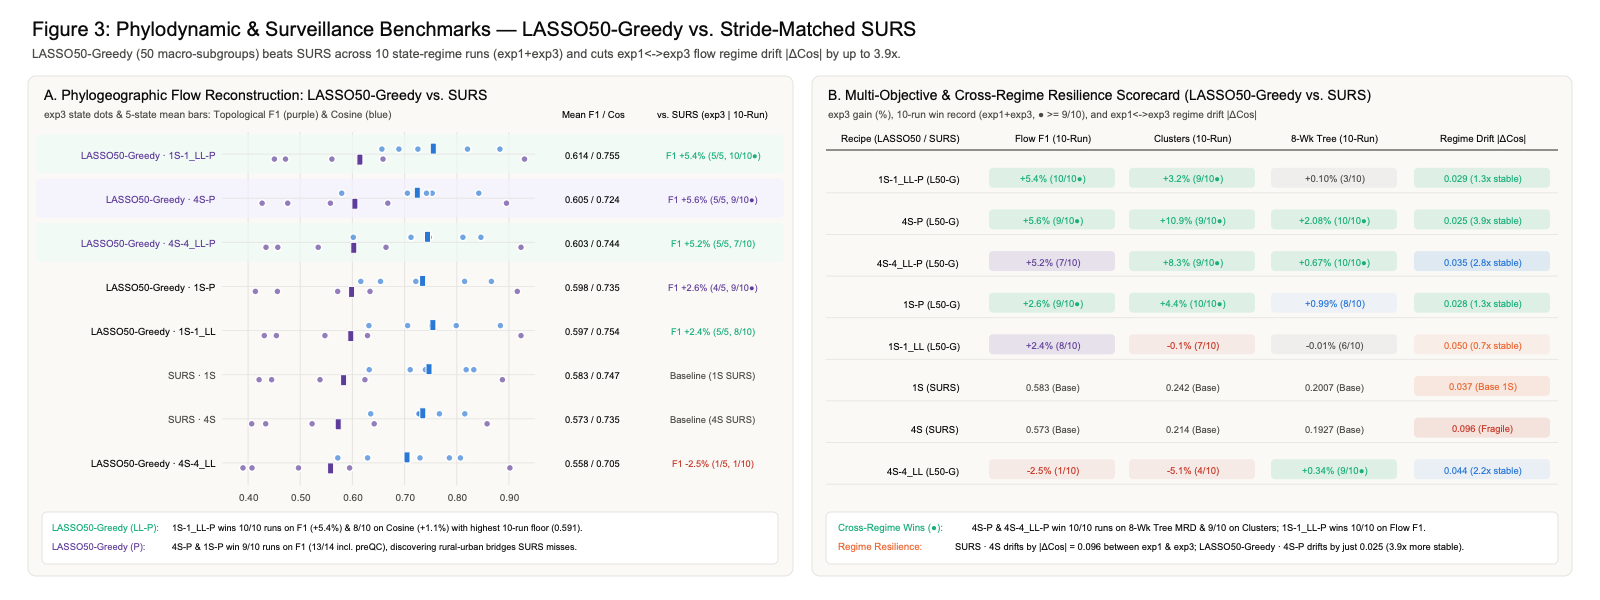
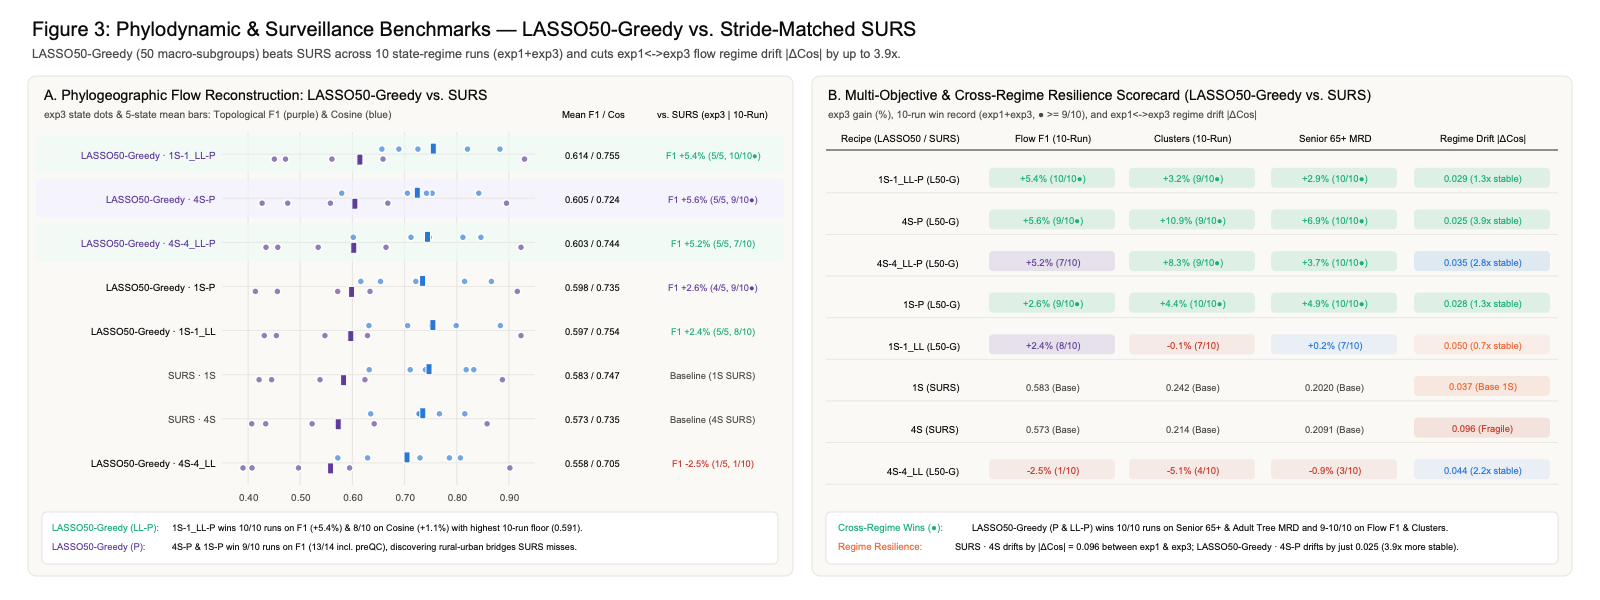
update characterization of performance and metric defintion

diff --git a/docs/characterization/README.md b/docs/characterization/README.md
@@ -1,6 +1,7 @@
 # PhyloGAS `exp3` Multi-State Characterization & Benchmark Report
 
 > **Backing Script:** Generated reproducibly by [`scripts/utils/characterize_exp3.py`](../../scripts/utils/characterize_exp3.py).
+> **Canonical Metrics & Recipes Reference:** **[`docs/benchmarks_and_metrics.md`](../benchmarks_and_metrics.md)** (full mathematical definitions), **[`docs/clock_modes.md`](../clock_modes.md)** (clock decomposition), and **[`docs/abm_contribution.md`](../abm_contribution.md)** (two-way orthogonality identity).
 > **ABM Ground-Truth Deposit (v2 / `exp3`):** [`10.5281/zenodo.23989650`](https://doi.org/10.5281/zenodo.23989650) (Concept DOI: [`10.5281/zenodo.23067669`](https://doi.org/10.5281/zenodo.23067669))
 > **Downstream PhyloGAS Outputs & Benchmarks Deposit (`exp3`):** [`10.5281/zenodo.24013208`](https://doi.org/10.5281/zenodo.24013208)
 
@@ -27,6 +28,12 @@ Generated by `scripts/utils/characterize_exp3.py` (`tickZero = 2020-11-30`, cell
 | WA | 3,100,280 | 5.29 d | `3.88` / `1.90` | `2021-03-15` (tick 105) | 3,548,756 | 4.74 d | `2.12` / `1.59` | `2021-08-05` (24,119/d) | **702 (18.8%)** vs. 89 (2.4%) | 12.5% | `0.03%` / `0.55%` |
 | **MEAN** | 3,616,998 | **5.22 d** | `3.35` / `2.26` | `2021-03-13` (tick 103.2) | 4,246,499 | **4.70 d** | `2.01` / `1.60` | `2021-08-05` (36,113/d) | **500 (13.0%)** vs. 63 (1.6%) | 14.4% | `0.03%` / `0.56%` |
 
+> **Section 1 Metric Legend (see [`docs/benchmarks_and_metrics.md` §2](../benchmarks_and_metrics.md#2-abm-epidemiological--waning-characterization-metrics)):**
+> - **`GI (d)`:** Realized mean generation interval $t_{\text{exposed}}(\text{child}) - t_{\text{exposed}}(\text{parent})$ across all ABM transmission edges (`5.22 d` for `E1`, `4.70 d` for `E2` in `exp3` vs. `6.87 d` in `exp1`).
+> - **$R_0(1\text{k})$ / $R_0(10\text{k})$:** Mean secondary infections per index case across the first $1{,}000$ and $10{,}000$ wave exposures.
+> - **`E2 Seeds <= Peak`:** Empirical `E2` importation events arriving on or before the simulated `E2` daily incidence peak (`13.0%` in `exp3` vs. `1.6%` in `exp2`).
+> - **`Window Reinf %` & `Gaps <= 30d / <= 60d`:** Share of painted-window `E2` cases that are repeat infections on the same host, and the fraction of repeat infections occurring within $\le 30\text{d}$ (`0.03%` under `Gamma(4, 45.75)` waning in `exp3`) or $\le 60\text{d}$ (`0.56%`).
+
 ---
 
 ## 2. Molecular-Clock Closure & Two-Way Orthogonality
@@ -47,6 +54,10 @@ Generated by `scripts/utils/characterize_exp3.py`. Baseline TreeTime clock (`mu_
 | **MEAN (5 States)** | 2,882,895 | `0.3429` $\to$ **`0.3432`** | `6.87 d` $\to$ **`4.68 d`** | **`26.76`** \| `9.00e-04` | `9.26e-04` | `0.844` | **`7.60e-04` (0.95x)** | `6.80e-04` \| `6.86e-04` | `0.314` $\to$ **`0.505`** |
 | **PRE-RUN PREDICTION** | 2,882,895 | `0.3428` $\to$ **`0.3430`** | `6.87 d` $\to$ **`4.69 d`** | **`26.60`** \| `8.91e-04` | `8.91e-04` | `0.885` | **`7.89e-04` (0.99x)** | `7.89e-04` \| `7.89e-04` | `0.314` $\to$ **`0.450`** |
 
+> **Section 2 Metric Legend (see [`docs/benchmarks_and_metrics.md` §3](../benchmarks_and_metrics.md#3-molecular-clock-closure--sequence-divergence-metrics), [`docs/clock_modes.md`](../clock_modes.md), and [`docs/abm_contribution.md`](../abm_contribution.md)):**
+> - **Closure Identity:** $\mu_{\text{truth}} = \frac{\hat{\lambda}}{\text{GI}} \cdot \frac{365.25}{L} \cdot s_{\text{path}}$, where $\hat{\lambda}$ is the per-transmission substitution count owned by the Genetic Painter (`0.3432`), $\text{GI}$ is the generation interval owned by EpiHiper (`4.68 d`), and $s_{\text{path}}$ (`0.844`) is the emergent path-length/coexistence factor.
+> - **$\mu_{\text{lineage}}$ vs. $\mu_{\text{truth}}$ vs. $\mu_{\text{sim}}$:** $\mu_{\text{lineage}}$ is the fixed-effects within-chain root-to-tip slope; $\mu_{\text{truth}}$ is the pooled root-to-tip OLS slope directly on the painted FASTA (`7.60e-4` subs/site/yr, `0.95x` of the canonical SARS-CoV-2 `8.0e-4` clock); $\mu_{\text{sim}}$ is TreeTime's unconstrained clock estimate on the reconstructed tree.
+
 ---
 
 ## 3. Phylodynamic & Surveillance Sampling Benchmarks (`LASSO50-Greedy` vs. `SURS`)
@@ -55,7 +66,7 @@ Generated by `scripts/utils/characterize_exp3.py`. Baseline TreeTime clock (`mu_
 
 ### Nomenclature Note: `LASSO50-Greedy` vs. Alternative Allocation Families
 
-Throughout these benchmarks, **`LASSO50-Greedy`** denotes our default LASSO regression + Greedy submodular optimization allocator configured with **`50` LASSO macro-subgroups** (distinct from `LASSO50-Stratified`, fine-grained `LASSO1500-Greedy`, proportional `Stratified` quota sampling, and Simple Uniform Random Sampling `SURS`). Each recipe combines an allocation algorithm with a target scenario (`<Stride>-<Target>`):
+Throughout these benchmarks, **`LASSO50-Greedy`** denotes our default LASSO regression + Greedy submodular optimization allocator configured with **`50` LASSO macro-subgroups** (distinct from `LASSO50-Stratified`, fine-grained `LASSO1500-Greedy`, proportional `Stratified` quota sampling, and Simple Uniform Random Sampling `SURS`; see [`docs/benchmarks_and_metrics.md` §1](../benchmarks_and_metrics.md#1-surveillance-sampling-recipes-scenario__algorithm)). Each recipe combines an allocation algorithm with a target scenario (`<Stride>-<Target>`):
 - `1S` / `4S`: 1-week vs. 4-week temporal pooling stride.
 - `P`: Census population target distribution (`Pop`).
 - `1_LL` / `4_LL`: Empirical clinical line-list incidence target (`Line List`).
@@ -71,12 +82,12 @@ Throughout these benchmarks, **`LASSO50-Greedy`** denotes our default LASSO regr
      - **`LASSO50-Greedy · 1S-1_LL-P`**: `mean |ΔCos| = 0.029`, achieving the **highest worst-state Cosine floor (`0.591`)** across all 10 state-regime runs (`exp1` + `exp3`).
      - **`LASSO50-Greedy · 4S-4_LL-P`**: `mean |ΔCos| = 0.035` (**2.8x lower regime drift** than `SURS · 4S`, beating `SURS · 4S` on mean Cosine in both `exp1` and `exp3`).
 2. **10-Run Cross-Experiment Dominance (`exp1` 5 States + `exp3` 5 States = 10 State-Regime Runs; 14 Runs Including `preQC`):**
-   - **Flow Topology ($F_1$, Network Edge Recovery):** `LASSO50-Greedy · 1S-1_LL-P` beats `SURS · 1S` in **10 / 10 runs** (**13 / 14** including `preQC`); `LASSO50-Greedy · 4S-P` and `LASSO50-Greedy · 1S-P` each win **9 / 10 runs** (**13 / 14** including `preQC`).
-   - **Flow Proportions (`Cosine`):** `LASSO50-Greedy · 1S-1_LL-P` beats `SURS · 1S` in **8 / 10 runs** (**10 / 14** including `preQC`) and ranks **#1 overall** in `exp3` on both Flow Topology ($F_1 = 0.614$) and Flow Proportions (Cosine $= 0.755$).
-   - **Transmission Clusters Reached (`stride_component_coverage`):** `LASSO50-Greedy · 1S-P` wins **10 / 10 runs** (`+6.2%` in `exp3`); `LASSO50-Greedy · 4S-P` (`+10.9%`), `4S-4_LL-P` (`+8.3%`), and `1S-1_LL-P` (`+3.2%`) each win **9 / 10 runs** (and **5 / 5 states** in `exp3`).
-   - **8-Week Rolling Tree Coverage (`MRD`):** `LASSO50-Greedy · 4S-P` (`+2.08%`) and `LASSO50-Greedy · 4S-4_LL-P` (`+1.35%`) win **10 / 10 runs** across `exp1` and `exp3`.
+   - **Flow Topology ($F_1$, Network Edge Recovery, $\uparrow$):** `LASSO50-Greedy · 1S-1_LL-P` beats `SURS · 1S` in **10 / 10 runs** (**13 / 14** including `preQC`); `LASSO50-Greedy · 4S-P` and `LASSO50-Greedy · 1S-P` each win **9 / 10 runs** (**13 / 14** including `preQC`).
+   - **Flow Proportions (`Cosine`, $\uparrow$):** `LASSO50-Greedy · 1S-1_LL-P` beats `SURS · 1S` in **8 / 10 runs** (**10 / 14** including `preQC`) and ranks **#1 overall** in `exp3` on both Flow Topology ($F_1 = 0.614$) and Flow Proportions (Cosine $= 0.755$).
+   - **Transmission Clusters Reached (`stride_component_coverage`, $\uparrow$):** `LASSO50-Greedy · 1S-P` wins **10 / 10 runs** (`+4.4%` in `exp3`); `LASSO50-Greedy · 4S-P` (`+10.9%`), `4S-4_LL-P` (`+8.3%`), and `1S-1_LL-P` (`+3.2%`) each win **9 / 10 runs** (and **5 / 5 states** in `exp3`).
+   - **Demographic Equity Tree Coverage (`equity_Senior_65+` & `equity_Adult_18-49` MRD, $\uparrow$):** All four population-aware `LASSO50-Greedy` recipes (`4S-P` `+6.9%`, `1S-P` `+4.9%`, `4S-4_LL-P` `+3.7%`, and `1S-1_LL-P` `+2.9%`) win **10 / 10 runs (`5/5` in `exp1` + `5/5` in `exp3`)** on Senior 65+ and Adult 18–49 phylogenetic tree proximity, while blended `LL-P` (`1S-1_LL-P` and `4S-4_LL-P`) also wins **8 / 10 runs** on full-wave tree coverage $C_0$ MRD.
 3. **Why Blended `LL-P` Outperforms Pure `P` on Cosine While Pure `P` Maximizes Network & Cluster Discovery:**
-   - Nextstrain's symmetrized rate matrix $W_{ij} = \frac{1}{2\mu}(q_{ij}/\pi_j + q_{ji}/\pi_i)$ divides transition counts $q_{ij}$ by the equilibrium node share $\pi_j$. Pure census targeting (`4S-P`) forces samples into low-incidence rural counties ($\pi_j \ll 1$), discovering more true county-to-county introductions (**+5.6% $F_1$, +10.9% Clusters Reached**) but amplifying $q_{ij}/\pi_j$ intensity weights on sparse rural links when `exp3` has no urban reinfection trap. Blending census diversity with line-list incidence (`LL-P`) prevents rural $1/\pi_j$ weight inflation while preserving the **5/5 state sweep** on topological flow recovery and cluster discovery.
+   - Nextstrain's symmetrized rate matrix $W_{ij} = \frac{1}{2\mu}(q_{ij}/\pi_j + q_{ji}/\pi_i)$ divides transition counts $q_{ij}$ by the equilibrium node share $\pi_j$. Pure census targeting (`4S-P`) forces samples into low-incidence rural counties ($\pi_j \ll 1$), discovering more true county-to-county introductions (**+5.6% $F_1$, +10.9% Clusters Reached**) but amplifying $q_{ij}/\pi_j$ intensity weights on sparse rural links when `exp3` has no urban reinfection trap. Blending census diversity with line-list incidence (`LL-P`) prevents rural $1/\pi_j$ weight inflation while preserving the **5/5 state sweep** on topological flow recovery, cluster discovery, and Senior/Adult tree coverage.
 
 # Table 3: `exp3` Inter-County Phylogeographic Reconstruction & Cross-Experiment Resilience (`LASSO50-Greedy` vs. `SURS`)
 
@@ -97,15 +108,22 @@ Generated by `scripts/utils/characterize_exp3.py`. Ranked by 5-state mean Topolo
 
 # Table 4: `exp3` Epidemic Truth & Demographic Equity Coverage (`LASSO50-Greedy` vs. `SURS`)
 
-Generated by `scripts/utils/characterize_exp3.py`. For MRD/L1 error metrics (`8_week_rolling_tree_coverage`, `coverage_size_*`, `stride_variant_prevalence_error`, `cumulative_infections`, `equity_*`), **lower AUC = lower divergence error** (win counts show `exp3` `/5` and pooled `exp1+exp3` `/10` where error < `SURS`); for `stride_component_coverage` (Clusters Reached), **higher AUC = greater transmission component capture**.
+Generated by `scripts/utils/characterize_exp3.py` (see [`docs/benchmarks_and_metrics.md`](../benchmarks_and_metrics.md#5-ground-truth-surveillance--phylogenetic-tree-coverage-metrics-auc_truth_rankingscsv)). For **Mean Reciprocal Distance (MRD)** tree-coverage metrics (`coverage_size_*`, `8_week_rolling_tree_coverage`, `equity_*`) and `stride_component_coverage` (Clusters Reached), **higher AUC ($\uparrow$) = closer phylogenetic proximity / greater cluster capture** (`1/(d+1)` along the true ABM transmission graph); for `stride_variant_prevalence_error` ($L_1$) and `cumulative_infections` (KL divergence), **lower AUC ($\downarrow$) = lower distribution error**.
 
-| Strategy Recipe (`LASSO50-Greedy` vs. `SURS`) | Clusters Reached ($\uparrow$) (`exp3` \| `10-Run`) | 8-Wk Rolling Tree MRD ($\downarrow$) (`exp3` \| `10-Run`) | Tree Coverage $C_0$ MRD ($\downarrow$) | Variant Prevalence L1 ($\downarrow$) | Senior 65+ Equity MRD ($\downarrow$) | Adult 18–49 Equity MRD ($\downarrow$) | Cumul. Infections MRD ($\downarrow$) |
+| Strategy Recipe (`LASSO50-Greedy` vs. `SURS`) | Clusters Reached ($\uparrow$) (`exp3` \| `10-Run`) | Senior 65+ Equity MRD ($\uparrow$) (`exp3` \| `10-Run`) | Adult 18–49 Equity MRD ($\uparrow$) (`exp3` \| `10-Run`) | Tree Coverage $C_0$ MRD ($\uparrow$) (`exp3` \| `10-Run`) | 8-Wk Rolling Tree MRD ($\uparrow$) | Variant Prevalence $L_1$ ($\downarrow$) | Cumul. Infections KL ($\downarrow$) |
 | :--- | :---: | :---: | :---: | :---: | :---: | :---: | :---: |
-| **LASSO50-Greedy · 1S-1_LL-P** (`1S-1_LL-P__lasso_greedy`) | **0.2499** (`+3.2%`, 5/5 \| **9/10**) | **0.2005** (`+0.10%`, 3/5 \| **3/10**) | `0.2021` (2/5) | **0.1586** | `0.2079` | `0.1933` | `0.4815` |
-| **LASSO50-Greedy · 4S-P** (`4S-P__lasso_greedy`) | **0.2373** (`+10.9%`, 5/5 \| **9/10**) | **0.1887** (`+2.08%`, 5/5 \| **10/10**) | `0.1923` (5/5) | **0.1350** | `0.2235` | `0.2036` | `0.5487` |
-| **LASSO50-Greedy · 4S-4_LL-P** (`4S-4_LL-P__lasso_greedy`) | **0.2317** (`+8.3%`, 5/5 \| **9/10**) | **0.1915** (`+0.67%`, 5/5 \| **10/10**) | `0.1944` (1/5) | **0.0978** | `0.2168` | `0.2020` | `0.4618` |
-| **LASSO50-Greedy · 1S-P** (`1S-P__lasso_greedy`) | **0.2528** (`+4.4%`, 5/5 \| **10/10**) | **0.1987** (`+0.99%`, 5/5 \| **8/10**) | `0.2011` (3/5) | **0.1848** | `0.2118` | `0.1965` | `0.5445` |
-| **LASSO50-Greedy · 1S-1_LL** (`1S-1_LL__lasso_greedy`) | **0.2421** (`-0.1%`, 3/5 \| **7/10**) | **0.2007** (`-0.01%`, 3/5 \| **6/10**) | `0.2017` (4/5) | **0.1469** | `0.2023` | `0.1919` | `0.4674` |
-| **SURS · 1S** (`1S__surs`) | **0.2422** (Base) | **0.2007** (Base) | `0.2019` (0/5) | **0.1444** | `0.2020` | `0.1923` | `0.4614` |
-| **SURS · 4S** (`4S__surs`) | **0.2140** (Base) | **0.1927** (Base) | `0.1942` (0/5) | **0.0680** | `0.2091` | `0.1999` | `0.4017` |
-| **LASSO50-Greedy · 4S-4_LL** (`4S-4_LL__lasso_greedy`) | **0.2030** (`-5.1%`, 1/5 \| **4/10**) | **0.1921** (`+0.34%`, 4/5 \| **9/10**) | `0.1940` (3/5) | **0.0877** | `0.2071` | `0.1998` | `0.4502` |
+| **LASSO50-Greedy · 1S-1_LL-P** (`1S-1_LL-P__lasso_greedy`) | **0.2499** (`+3.2%`, 5/5 \| **9/10**) | **0.2079** (`+2.9%`, 5/5 \| **10/10**) | `0.1933` (`+0.6%`, 5/5 \| **10/10**) | `0.2021` (3/5 \| **8/10**) | `0.2005` | **0.1586** | `0.4815` |
+| **LASSO50-Greedy · 4S-P** (`4S-P__lasso_greedy`) | **0.2373** (`+10.9%`, 5/5 \| **9/10**) | **0.2235** (`+6.9%`, 5/5 \| **10/10**) | `0.2036` (`+1.8%`, 5/5 \| **10/10**) | `0.1923` (0/5 \| **4/10**) | `0.1887` | **0.1350** | `0.5487` |
+| **LASSO50-Greedy · 4S-4_LL-P** (`4S-4_LL-P__lasso_greedy`) | **0.2317** (`+8.3%`, 5/5 \| **9/10**) | **0.2168** (`+3.7%`, 5/5 \| **10/10**) | `0.2020` (`+1.0%`, 5/5 \| **10/10**) | `0.1944` (4/5 \| **8/10**) | `0.1915` | **0.0978** | `0.4618` |
+| **LASSO50-Greedy · 1S-P** (`1S-P__lasso_greedy`) | **0.2528** (`+4.4%`, 5/5 \| **10/10**) | **0.2118** (`+4.9%`, 5/5 \| **10/10**) | `0.1965` (`+2.2%`, 5/5 \| **10/10**) | `0.2011` (2/5 \| **5/10**) | `0.1987` | **0.1848** | `0.5445` |
+| **LASSO50-Greedy · 1S-1_LL** (`1S-1_LL__lasso_greedy`) | **0.2421** (`-0.1%`, 3/5 \| **7/10**) | **0.2023** (`+0.2%`, 4/5 \| **7/10**) | `0.1919` (`-0.2%`, 1/5 \| **5/10**) | `0.2017` (1/5 \| **4/10**) | `0.2007` | **0.1469** | `0.4674` |
+| **SURS · 1S** (`1S__surs`) | **0.2422** (Base) | **0.2020** (Base) | `0.1923` (Base) | `0.2019` (Base) | `0.2007` | **0.1444** | `0.4614` |
+| **SURS · 4S** (`4S__surs`) | **0.2140** (Base) | **0.2091** (Base) | `0.1999` (Base) | `0.1942` (Base) | `0.1927` | **0.0680** | `0.4017` |
+| **LASSO50-Greedy · 4S-4_LL** (`4S-4_LL__lasso_greedy`) | **0.2030** (`-5.1%`, 1/5 \| **4/10**) | **0.2071** (`-0.9%`, 1/5 \| **3/10**) | `0.1998` (`-0.1%`, 2/5 \| **4/10**) | `0.1940` (2/5 \| **2/10**) | `0.1921` | **0.0877** | `0.4502` |
+
+> **Section 3 Metric Legend (see [`docs/benchmarks_and_metrics.md` §§4–5](../benchmarks_and_metrics.md#4-phylogeographic-flow-reconstruction-metrics-mugration_metricscsv)):**
+> - **Flow Topology $F_1$ ($\uparrow$) & Flow Cosine ($\uparrow$):** Evaluated on the off-diagonal county-to-county transition vectors $\mathbf{t}, \mathbf{w} \in \mathbb{R}^{N(N-1)}$ ([`scoring.py`](../../src/phylogas/benchmark/scoring.py)). $F_1$ scores binary recovery of active inter-county transmission links; Cosine scores agreement of relative inter-county flow intensities.
+> - **Regime Drift $|\Delta\text{Cos}|$ ($\downarrow$) & 10-Run Cosine Floor ($\uparrow$):** Mean per-state shift $|\text{Cos}_{s,\text{exp3}} - \text{Cos}_{s,\text{exp1}}|$ across the 5 states, and the minimum single-state Cosine across all 10 post-QC state-regime runs.
+> - **Clusters Reached (`stride_component_coverage`, $\uparrow$):** Fraction of active ground-truth imported transmission chains per stride captured by at least one sequenced genome ([`truth_runner.py`](../../src/phylogas/benchmark/truth_runner.py)).
+> - **Tree Coverage & Demographic Equity MRD (`coverage_size_0`, `8_week_rolling_tree_coverage`, `equity_*`, $\uparrow$):** Span-normalized AUC of **Mean Reciprocal Distance** $\text{MRD}(P_t, S) = \frac{1}{|P_t|}\sum_{u \in P_t} \frac{1}{d_G(u, S) + 1}$ along the true ABM transmission graph ($1.0$ = every infection directly sequenced; higher = closer phylogenetic proximity).
+> - **Variant Prevalence $L_1$ (`stride_variant_prevalence_error`, $\downarrow$) & Cumul. Infections KL (`cumulative_infections`, $\downarrow$):** Total variation ($L_1$) error on benchmark sub-lineage proportions and Kullback–Leibler divergence on demographic $\times$ county infection distributions (lower = lower estimation error).

diff --git a/docs/characterization/exp3_auc_truth_benchmarks.md b/docs/characterization/exp3_auc_truth_benchmarks.md
@@ -1,14 +1,14 @@
 # Table 4: `exp3` Epidemic Truth & Demographic Equity Coverage (`LASSO50-Greedy` vs. `SURS`)
 
-Generated by `scripts/utils/characterize_exp3.py`. For MRD/L1 error metrics (`8_week_rolling_tree_coverage`, `coverage_size_*`, `stride_variant_prevalence_error`, `cumulative_infections`, `equity_*`), **lower AUC = lower divergence error** (win counts show `exp3` `/5` and pooled `exp1+exp3` `/10` where error < `SURS`); for `stride_component_coverage` (Clusters Reached), **higher AUC = greater transmission component capture**.
+Generated by `scripts/utils/characterize_exp3.py` (see [`docs/benchmarks_and_metrics.md`](../benchmarks_and_metrics.md#5-ground-truth-surveillance--phylogenetic-tree-coverage-metrics-auc_truth_rankingscsv)). For **Mean Reciprocal Distance (MRD)** tree-coverage metrics (`coverage_size_*`, `8_week_rolling_tree_coverage`, `equity_*`) and `stride_component_coverage` (Clusters Reached), **higher AUC ($\uparrow$) = closer phylogenetic proximity / greater cluster capture** (`1/(d+1)` along the true ABM transmission graph); for `stride_variant_prevalence_error` ($L_1$) and `cumulative_infections` (KL divergence), **lower AUC ($\downarrow$) = lower distribution error**.
 
-| Strategy Recipe (`LASSO50-Greedy` vs. `SURS`) | Clusters Reached ($\uparrow$) (`exp3` \| `10-Run`) | 8-Wk Rolling Tree MRD ($\downarrow$) (`exp3` \| `10-Run`) | Tree Coverage $C_0$ MRD ($\downarrow$) | Variant Prevalence L1 ($\downarrow$) | Senior 65+ Equity MRD ($\downarrow$) | Adult 18–49 Equity MRD ($\downarrow$) | Cumul. Infections MRD ($\downarrow$) |
+| Strategy Recipe (`LASSO50-Greedy` vs. `SURS`) | Clusters Reached ($\uparrow$) (`exp3` \| `10-Run`) | Senior 65+ Equity MRD ($\uparrow$) (`exp3` \| `10-Run`) | Adult 18–49 Equity MRD ($\uparrow$) (`exp3` \| `10-Run`) | Tree Coverage $C_0$ MRD ($\uparrow$) (`exp3` \| `10-Run`) | 8-Wk Rolling Tree MRD ($\uparrow$) | Variant Prevalence $L_1$ ($\downarrow$) | Cumul. Infections KL ($\downarrow$) |
 | :--- | :---: | :---: | :---: | :---: | :---: | :---: | :---: |
-| **LASSO50-Greedy · 1S-1_LL-P** (`1S-1_LL-P__lasso_greedy`) | **0.2499** (`+3.2%`, 5/5 \| **9/10**) | **0.2005** (`+0.10%`, 3/5 \| **3/10**) | `0.2021` (2/5) | **0.1586** | `0.2079` | `0.1933` | `0.4815` |
-| **LASSO50-Greedy · 4S-P** (`4S-P__lasso_greedy`) | **0.2373** (`+10.9%`, 5/5 \| **9/10**) | **0.1887** (`+2.08%`, 5/5 \| **10/10**) | `0.1923` (5/5) | **0.1350** | `0.2235` | `0.2036` | `0.5487` |
-| **LASSO50-Greedy · 4S-4_LL-P** (`4S-4_LL-P__lasso_greedy`) | **0.2317** (`+8.3%`, 5/5 \| **9/10**) | **0.1915** (`+0.67%`, 5/5 \| **10/10**) | `0.1944` (1/5) | **0.0978** | `0.2168` | `0.2020` | `0.4618` |
-| **LASSO50-Greedy · 1S-P** (`1S-P__lasso_greedy`) | **0.2528** (`+4.4%`, 5/5 \| **10/10**) | **0.1987** (`+0.99%`, 5/5 \| **8/10**) | `0.2011` (3/5) | **0.1848** | `0.2118` | `0.1965` | `0.5445` |
-| **LASSO50-Greedy · 1S-1_LL** (`1S-1_LL__lasso_greedy`) | **0.2421** (`-0.1%`, 3/5 \| **7/10**) | **0.2007** (`-0.01%`, 3/5 \| **6/10**) | `0.2017` (4/5) | **0.1469** | `0.2023` | `0.1919` | `0.4674` |
-| **SURS · 1S** (`1S__surs`) | **0.2422** (Base) | **0.2007** (Base) | `0.2019` (0/5) | **0.1444** | `0.2020` | `0.1923` | `0.4614` |
-| **SURS · 4S** (`4S__surs`) | **0.2140** (Base) | **0.1927** (Base) | `0.1942` (0/5) | **0.0680** | `0.2091` | `0.1999` | `0.4017` |
-| **LASSO50-Greedy · 4S-4_LL** (`4S-4_LL__lasso_greedy`) | **0.2030** (`-5.1%`, 1/5 \| **4/10**) | **0.1921** (`+0.34%`, 4/5 \| **9/10**) | `0.1940` (3/5) | **0.0877** | `0.2071` | `0.1998` | `0.4502` |
+| **LASSO50-Greedy · 1S-1_LL-P** (`1S-1_LL-P__lasso_greedy`) | **0.2499** (`+3.2%`, 5/5 \| **9/10**) | **0.2079** (`+2.9%`, 5/5 \| **10/10**) | `0.1933` (`+0.6%`, 5/5 \| **10/10**) | `0.2021` (3/5 \| **8/10**) | `0.2005` | **0.1586** | `0.4815` |
+| **LASSO50-Greedy · 4S-P** (`4S-P__lasso_greedy`) | **0.2373** (`+10.9%`, 5/5 \| **9/10**) | **0.2235** (`+6.9%`, 5/5 \| **10/10**) | `0.2036` (`+1.8%`, 5/5 \| **10/10**) | `0.1923` (0/5 \| **4/10**) | `0.1887` | **0.1350** | `0.5487` |
+| **LASSO50-Greedy · 4S-4_LL-P** (`4S-4_LL-P__lasso_greedy`) | **0.2317** (`+8.3%`, 5/5 \| **9/10**) | **0.2168** (`+3.7%`, 5/5 \| **10/10**) | `0.2020` (`+1.0%`, 5/5 \| **10/10**) | `0.1944` (4/5 \| **8/10**) | `0.1915` | **0.0978** | `0.4618` |
+| **LASSO50-Greedy · 1S-P** (`1S-P__lasso_greedy`) | **0.2528** (`+4.4%`, 5/5 \| **10/10**) | **0.2118** (`+4.9%`, 5/5 \| **10/10**) | `0.1965` (`+2.2%`, 5/5 \| **10/10**) | `0.2011` (2/5 \| **5/10**) | `0.1987` | **0.1848** | `0.5445` |
+| **LASSO50-Greedy · 1S-1_LL** (`1S-1_LL__lasso_greedy`) | **0.2421** (`-0.1%`, 3/5 \| **7/10**) | **0.2023** (`+0.2%`, 4/5 \| **7/10**) | `0.1919` (`-0.2%`, 1/5 \| **5/10**) | `0.2017` (1/5 \| **4/10**) | `0.2007` | **0.1469** | `0.4674` |
+| **SURS · 1S** (`1S__surs`) | **0.2422** (Base) | **0.2020** (Base) | `0.1923` (Base) | `0.2019` (Base) | `0.2007` | **0.1444** | `0.4614` |
+| **SURS · 4S** (`4S__surs`) | **0.2140** (Base) | **0.2091** (Base) | `0.1999` (Base) | `0.1942` (Base) | `0.1927` | **0.0680** | `0.4017` |
+| **LASSO50-Greedy · 4S-4_LL** (`4S-4_LL__lasso_greedy`) | **0.2030** (`-5.1%`, 1/5 \| **4/10**) | **0.2071** (`-0.9%`, 1/5 \| **3/10**) | `0.1998` (`-0.1%`, 2/5 \| **4/10**) | `0.1940` (2/5 \| **2/10**) | `0.1921` | **0.0877** | `0.4502` |

diff --git a/README.md b/README.md
@@ -22,7 +22,7 @@ PhyloGAS is orchestrated via **Snakemake**. The pipeline consists of five primar
 2. **The Genetic Painter (`src/phylogas/painter/`):** Overlays biologically plausible SARS-CoV-2 genomes onto the transmission tree, starting from real imported sequences (the seed FASTA) rather than the reference. A "Speedometer" (calibrated Poisson rate-limiting) dictates *how many* mutations occur per transmission; a "Map" (MSA-derived entropy and substitution matrices) dictates *where* they fixate.
 3. **Ascertainment Simulation ([TwinSampler](https://github.com/NSSAC/TwinSampler)):** Applies severity- and demographics-dependent detection to every infection, producing a biased line list plus the full infection record. It models *who* gets detected, not reporting delay: dates are symptom/state onset.
 4. **Adaptive Sampling ([BeyondBaseline](https://github.com/NSSAC/BeyondBaseline)):** Selects which cases to sequence under a weekly budget — SURS, stratified, greedy and LASSO-based strategies, across stride / pool-window / target scenarios. Each (scenario × algorithm) pair is a **recipe**, e.g. `4S__surs` or `4S-4_LL-P__lasso_greedy`.
-5. **Reconstruction & Benchmarking:** Builds a Nextstrain (augur/TreeTime) tree per chosen recipe, then scores against the ground truth: geographic flow (cosine similarity, topological F1), variant prevalence, painted-sequence sanity, and the molecular clock (the rate the painter actually produced vs. the rate Nextstrain assumed or inferred — see [`docs/clock_modes.md`](docs/clock_modes.md)).
+5. **Reconstruction & Benchmarking:** Builds a Nextstrain (augur/TreeTime) tree per chosen recipe, then scores against the ground truth: geographic flow (cosine similarity, topological $F_1$), variant prevalence, phylogenetic tree coverage (Mean Reciprocal Distance), painted-sequence sanity, and the molecular clock (the rate the painter actually produced vs. the rate Nextstrain assumed or inferred — see **[`docs/benchmarks_and_metrics.md`](docs/benchmarks_and_metrics.md)**, **[`docs/clock_modes.md`](docs/clock_modes.md)**, **[`docs/abm_contribution.md`](docs/abm_contribution.md)**, and the 5-state characterization report in **[`docs/characterization/README.md`](docs/characterization/README.md)**).
 
 ---
 
@@ -346,9 +346,12 @@ PhyloGAS/
 │       ├── lineage.py         #   within- vs between-chain clock decomposition
 │       └── runner.py          #   batch drivers
 ├── docs/
-│   ├── clock_modes.md         # what each clock rate measures, and how to read them
-│   ├── design/                # open design questions (e.g. metadata_ownership.md)
-│   └── staging_local_data.md  # using files already on a cluster
+│   ├── benchmarks_and_metrics.md # canonical reference for recipes, flow, MRD, & clock metrics
+│   ├── clock_modes.md            # what each clock rate measures, and how to read them
+│   ├── abm_contribution.md       # two-way orthogonality identity (lambda, GI, s_path)
+│   ├── characterization/         # 5-state exp3 characterization report, tables, & SVG/PNG figures
+│   ├── design/                   # open design questions (e.g. metadata_ownership.md)
+│   └── staging_local_data.md     # using files already on a cluster
 └── cfg/
     ├── nextstrain/ncov/       # ncov build overrides (clock, coalescent)
     └── ...                    # EpiHiper experiment configs

diff --git a/docs/abm_contribution.md b/docs/abm_contribution.md
@@ -1,6 +1,11 @@
 # What the ABM contributes to the twin's molecular clock
 
-`clock_modes.md` defines the clock quantities and says which comparisons are
+> **Related Documentation:**
+> - **[`docs/clock_modes.md`](clock_modes.md)** — Definitions of `mu_truth`, `mu_lineage`, `mu_between_chains`, and `mu_sim`.
+> - **[`docs/benchmarks_and_metrics.md`](benchmarks_and_metrics.md)** — Canonical definitions of all PhyloGAS sampling recipes, epidemiological measures, phylogeographic flow metrics, and Mean Reciprocal Distance (MRD) tree coverage benchmarks.
+> - **[`docs/characterization/README.md`](characterization/README.md)** — Multi-state `exp3` characterization report and benchmark tables.
+
+[`clock_modes.md`](clock_modes.md) defines the clock quantities and says which comparisons are
 legitimate. This file answers a different question: when the emergent clock
 moves, **how much of that is EpiHiper and how much is ours?** It matters
 because only one of the two is a knob we hold, and because a reviewer asking

diff --git a/docs/clock_modes.md b/docs/clock_modes.md
@@ -1,5 +1,10 @@
 # Clock rate: which mode answers which question
 
+> **Related Documentation:**
+> - **[`docs/benchmarks_and_metrics.md`](benchmarks_and_metrics.md)** — Canonical definitions of all PhyloGAS sampling recipes, phylogeographic flow metrics, and Mean Reciprocal Distance (MRD) coverage benchmarks.
+> - **[`docs/abm_contribution.md`](abm_contribution.md)** — How the ABM generation interval ($\text{GI}$) and the painter substitution count ($\hat{\lambda}$) combine via $\mu_{\text{truth}} = \frac{\hat{\lambda}}{\text{GI}} \cdot s_{\text{path}}$.
+> - **[`docs/characterization/README.md`](characterization/README.md)** — Multi-state `exp3` characterization report and benchmark tables.
+
 The molecular clock is the one parameter where the simulated and the real
 analysis can be made to disagree *by configuration rather than by biology*, so
 it needs deciding deliberately rather than per run. This document is the
